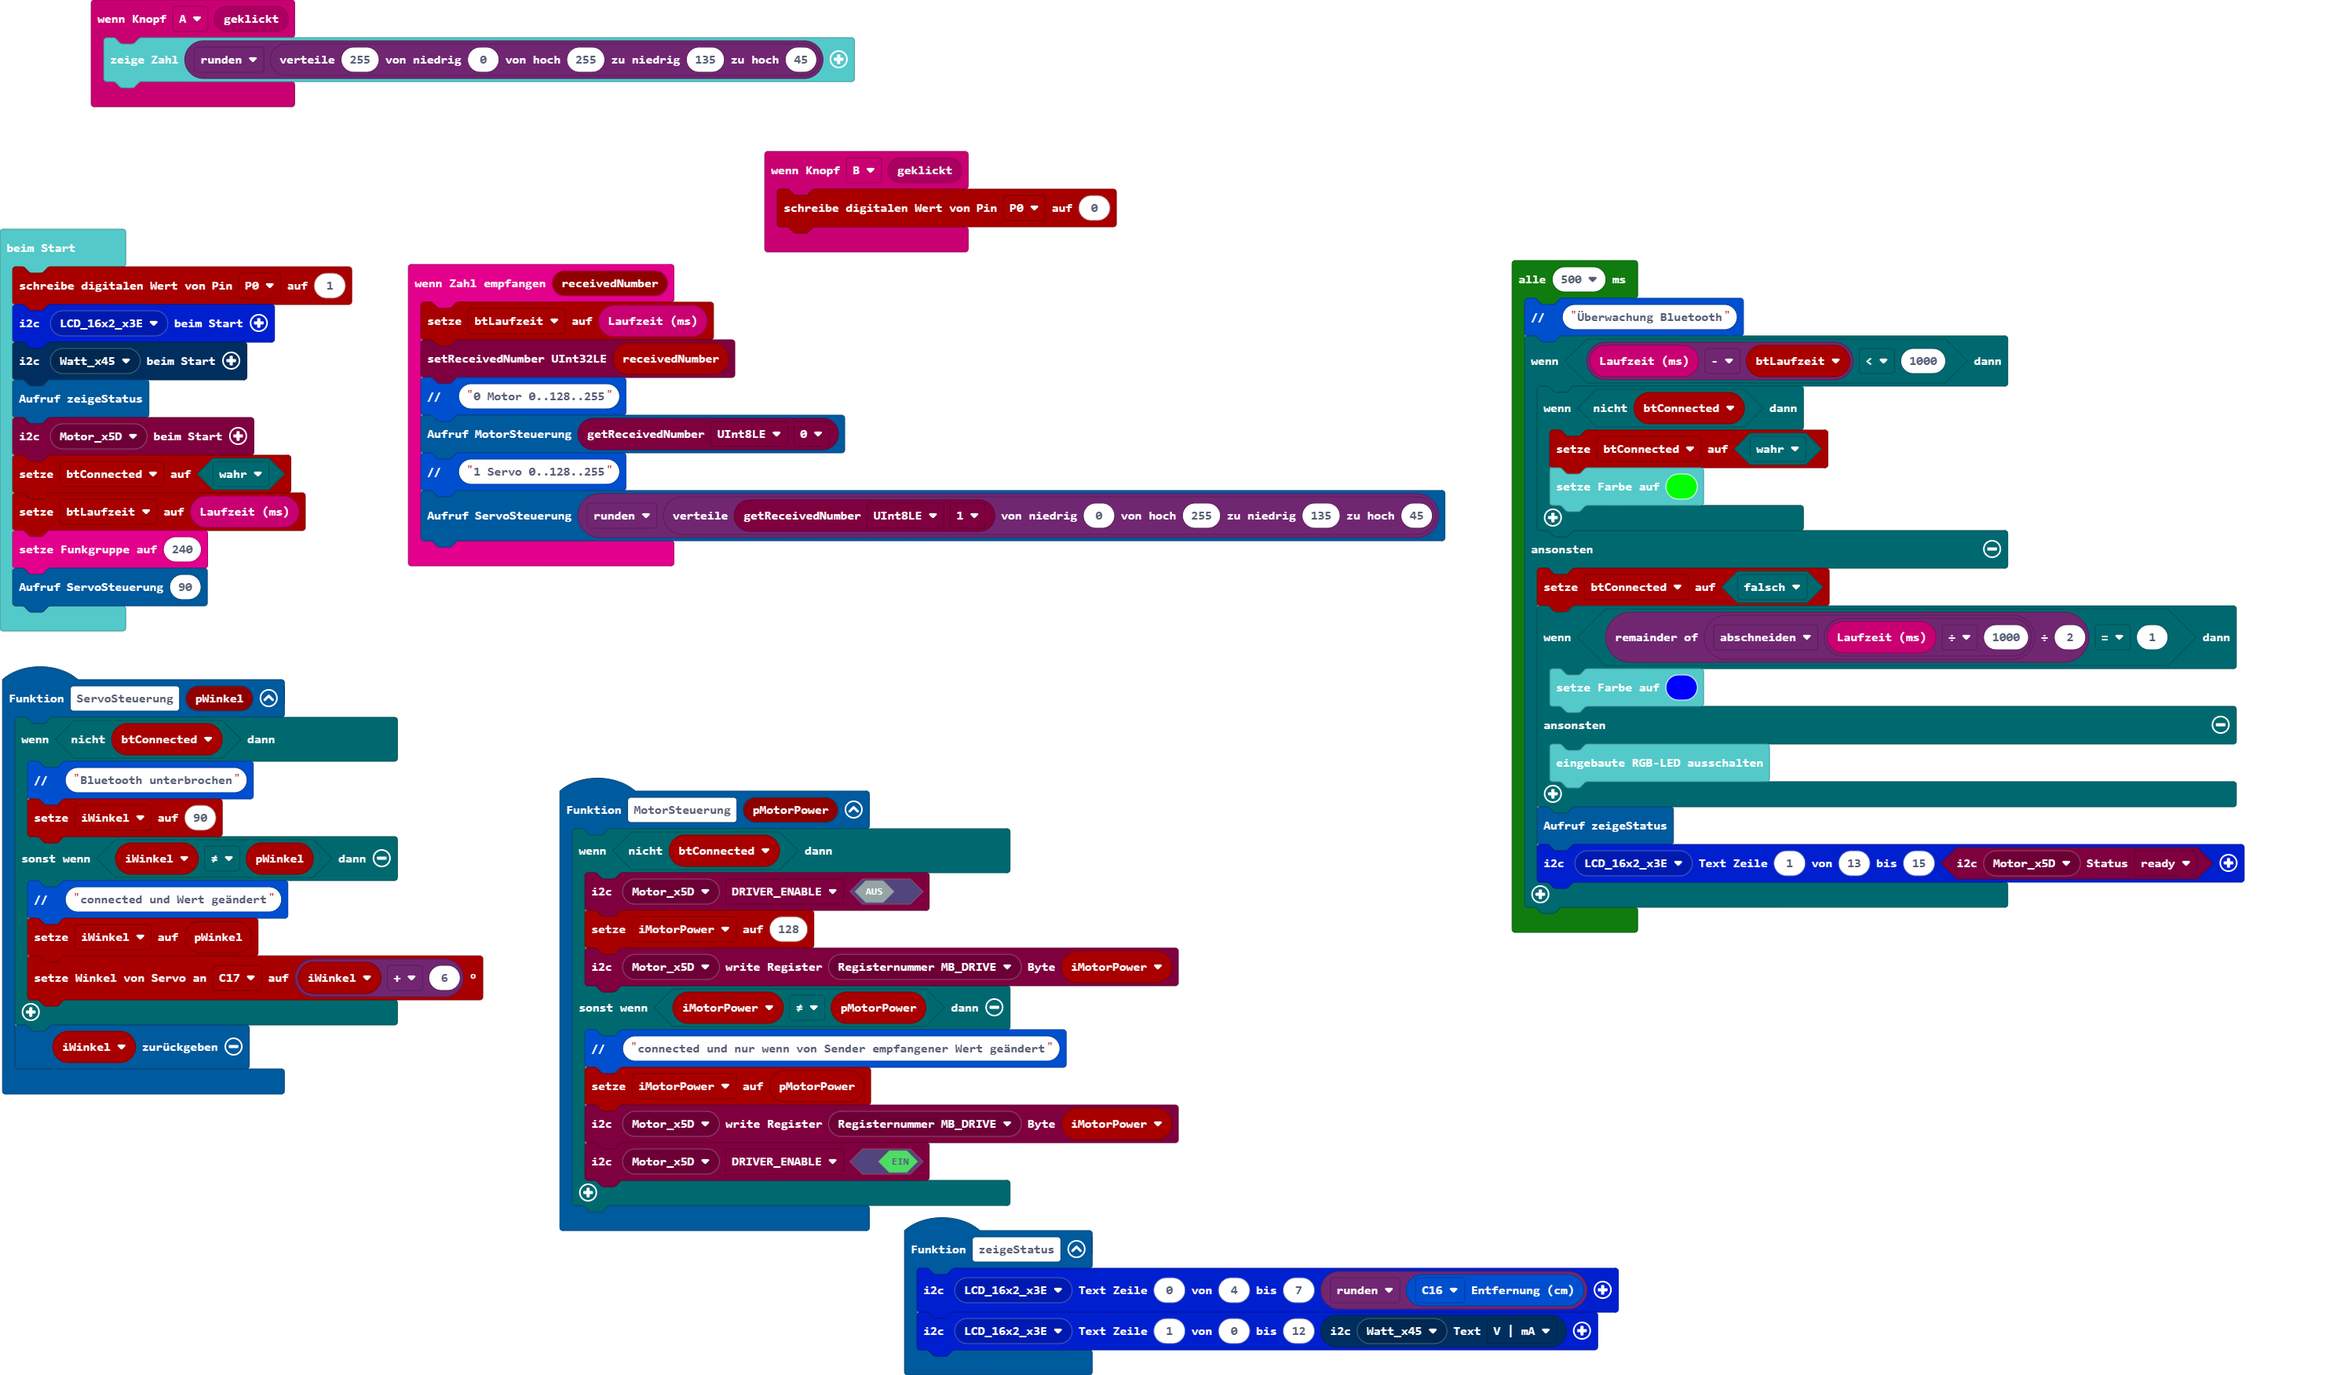
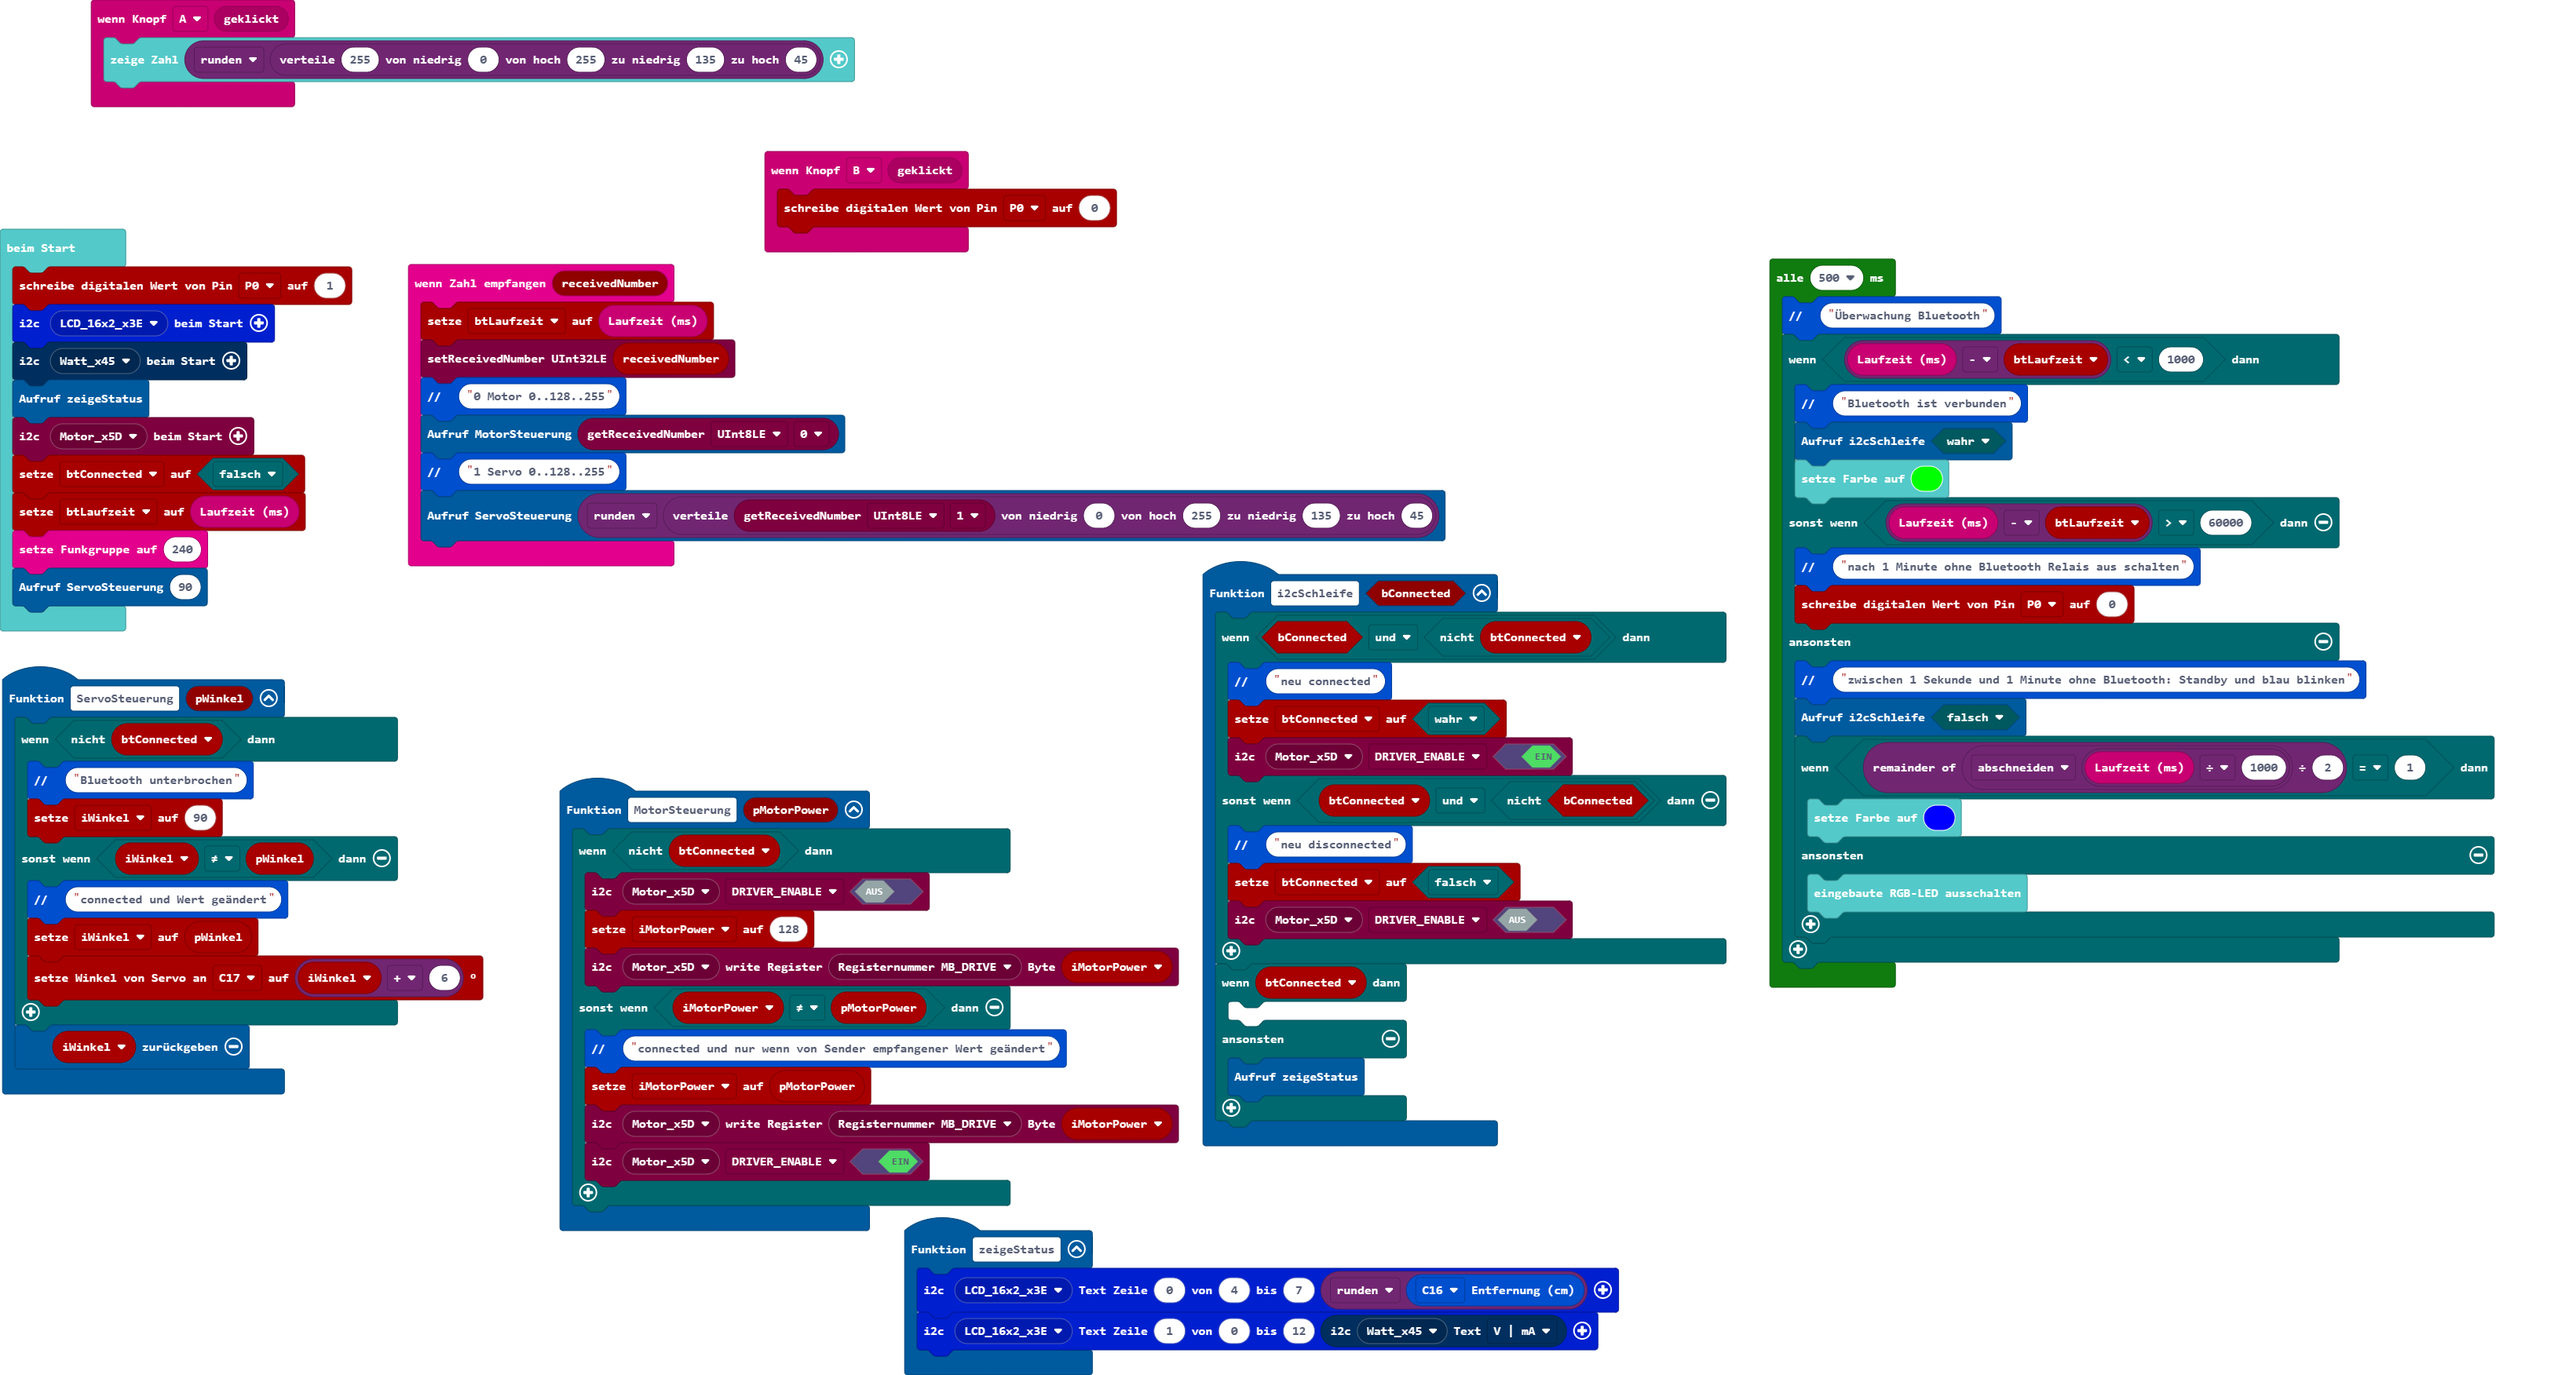
Aktualisiere pxt.json, main.blocks, main.ts

Changed region(s): [[0.0, 0.0925, 0.9936, 1.0], [0.031, 0.0, 0.3726, 0.0925], [0.1552, 0.524, 0.1863, 0.5548]]

diff --git a/main.ts b/main.ts
@@ -28,6 +28,22 @@ function zeigeStatus () {
 input.onButtonEvent(Button.B, input.buttonEventClick(), function () {
     pins.digitalWritePin(DigitalPin.P0, 0)
 })
+function i2cSchleife (bConnected: boolean) {
+    if (bConnected && !(btConnected)) {
+        bit.comment("neu connected")
+        btConnected = true
+        qwiicmotor.controlRegister(qwiicmotor.qwiicmotor_eADDR(qwiicmotor.eADDR.Motor_x5D), qwiicmotor.eControl.DRIVER_ENABLE, true)
+    } else if (btConnected && !(bConnected)) {
+        bit.comment("neu disconnected")
+        btConnected = false
+        qwiicmotor.controlRegister(qwiicmotor.qwiicmotor_eADDR(qwiicmotor.eADDR.Motor_x5D), qwiicmotor.eControl.DRIVER_ENABLE, false)
+    }
+    if (btConnected) {
+    	
+    } else {
+        zeigeStatus()
+    }
+}
 function ServoSteuerung (pWinkel: number) {
     if (!(btConnected)) {
         bit.comment("Bluetooth unterbrochen")
@@ -48,25 +64,26 @@ lcd16x2rgb.initLCD(lcd16x2rgb.lcd16x2_eADDR(lcd16x2rgb.eADDR_LCD.LCD_16x2_x3E))
 wattmeter.reset(wattmeter.wattmeter_eADDR(wattmeter.eADDR.Watt_x45))
 zeigeStatus()
 qwiicmotor.init(qwiicmotor.qwiicmotor_eADDR(qwiicmotor.eADDR.Motor_x5D))
-btConnected = true
+btConnected = false
 btLaufzeit = input.runningTime()
 radio.setGroup(240)
 ServoSteuerung(90)
 loops.everyInterval(500, function () {
     bit.comment("Überwachung Bluetooth")
     if (input.runningTime() - btLaufzeit < 1000) {
-        if (!(btConnected)) {
-            btConnected = true
-            basic.setLedColor(0x00ff00)
-        }
+        bit.comment("Bluetooth ist verbunden")
+        i2cSchleife(true)
+        basic.setLedColor(0x00ff00)
+    } else if (input.runningTime() - btLaufzeit > 60000) {
+        bit.comment("nach 1 Minute ohne Bluetooth Relais aus schalten")
+        pins.digitalWritePin(DigitalPin.P0, 0)
     } else {
-        btConnected = false
+        bit.comment("zwischen 1 Sekunde und 1 Minute ohne Bluetooth: Standby und blau blinken")
+        i2cSchleife(false)
         if (Math.trunc(input.runningTime() / 1000) % 2 == 1) {
             basic.setLedColor(0x0000ff)
         } else {
             basic.turnRgbLedOff()
         }
-        zeigeStatus()
-        lcd16x2rgb.writeText(lcd16x2rgb.lcd16x2_eADDR(lcd16x2rgb.eADDR_LCD.LCD_16x2_x3E), 1, 13, 15, qwiicmotor.getStatus(qwiicmotor.qwiicmotor_eADDR(qwiicmotor.eADDR.Motor_x5D), qwiicmotor.eStatus.ready))
     }
 })
